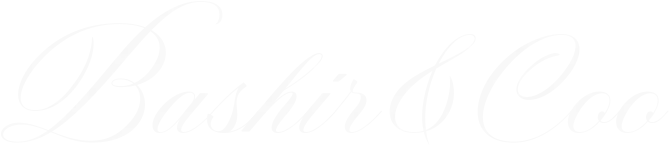
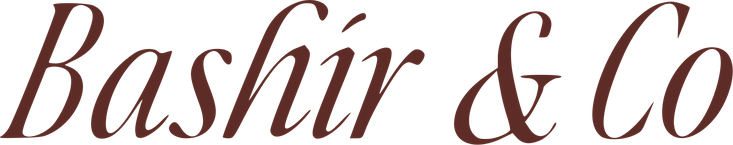
Wordmark: fix "Bashir & Coo" to "Bashir & Co" — drop duplicate o in mark, preloader and brand assets

diff --git a/components/brand/Wordmark.tsx b/components/brand/Wordmark.tsx
@@ -5,6 +5,12 @@ import styles from "./Wordmark.module.css";
  *
  * One component, used by the header, the search overlay and the footer,
  * so the mark is defined once. It's an inline SVG rather than an <img>
+ * The mark reads "Bashir & Co". It previously carried a second `o`
+ * glyph — the wordmark said "Coo" while the page title, metadata and
+ * every other mention said "Co" — so the duplicate path was removed and
+ * the viewBox tightened from 538 to 495 to close the gap it left.
+ *
+ * It's an inline SVG rather than an <img>
  * because that lets `currentColor` do the work: the same file renders
  * rosewood on cream in the header and ivory over a photograph in the
  * hero, without shipping two copies or resorting to CSS filters that
@@ -26,7 +32,7 @@ export function Wordmark({ height, className, title = "Bashir&Co" }: WordmarkPro
   return (
     <svg
       className={[styles.mark, className].filter(Boolean).join(" ")}
-      viewBox="0 0 538 206"
+      viewBox="0 0 495 206"
       {...(height ? { height } : {})}
       role="img"
       aria-label={title}
@@ -41,7 +47,6 @@ export function Wordmark({ height, className, title = "Bashir&Co" }: WordmarkPro
         <path d="M2266 1274 c-42 -15 -126 -79 -126 -95 0 -6 19 6 42 25 44 38 63 44 71 23 3 -7 -33 -105 -79 -217 -86 -212 -98 -262 -66 -279 31 -16 111 28 170 94 28 32 50 61 47 63 -2 2 -30 -23 -62 -57 -59 -62 -79 -72 -89 -47 -3 8 35 114 85 237 50 122 91 226 91 230 0 10 -29 39 -38 38 -4 0 -25 -7 -46 -15z" />
         <path d="M2490 1272 c-44 -23 -101 -64 -95 -70 2 -2 20 6 39 18 73 45 73 8 0 -186 -31 -82 -69 -184 -85 -226 l-28 -78 38 0 c37 0 39 2 56 48 46 124 197 380 242 409 20 13 28 13 55 2 28 -12 32 -11 49 10 11 13 19 32 19 42 0 22 -34 42 -59 34 -31 -10 -104 -95 -161 -188 -29 -48 -55 -86 -57 -84 -2 2 15 53 37 113 47 124 49 168 10 171 -14 2 -41 -5 -60 -15z" />
         <path d="M4461 1268 c-122 -60 -221 -230 -221 -377 0 -75 23 -124 70 -148 93 -47 241 52 315 210 70 149 64 281 -15 322 -41 21 -98 19 -149 -7z m124 -8 c43 -48 -11 -276 -98 -413 -81 -125 -162 -142 -174 -36 -12 105 86 360 166 432 46 41 79 47 106 17z" />
-        <path d="M4891 1268 c-122 -60 -221 -230 -221 -377 0 -75 23 -124 70 -148 93 -47 241 52 315 210 70 149 64 281 -15 322 -41 21 -98 19 -149 -7z m124 -8 c43 -48 -11 -276 -98 -413 -81 -125 -162 -142 -174 -36 -12 105 86 360 166 432 46 41 79 47 106 17z" />
         <path d="M1009 1260 c-19 -10 -58 -39 -87 -65 -177 -159 -260 -471 -123 -467 63 2 119 51 201 177 29 44 50 72 46 62 -32 -97 -47 -161 -44 -193 3 -33 7 -39 28 -42 32 -4 110 47 151 99 43 55 32 57 -20 4 -72 -74 -112 -72 -91 4 6 23 29 85 51 139 61 145 111 283 107 288 -3 2 -19 -1 -37 -7 -26 -9 -35 -8 -50 5 -24 21 -87 20 -132 -4z m119 -12 c20 -20 14 -41 -48 -168 -100 -201 -192 -327 -236 -318 -44 8 -22 163 41 288 78 156 192 249 243 198z" />
         <path d="M1425 1261 c-43 -26 -61 -50 -75 -97 -13 -45 -5 -88 44 -219 29 -80 32 -124 11 -165 -29 -55 -82 -51 -121 11 -25 40 -41 48 -62 27 -38 -38 15 -88 92 -88 75 0 135 33 164 90 30 59 26 107 -22 229 -45 114 -47 172 -5 204 35 25 59 16 84 -30 27 -51 60 -53 60 -3 0 27 -6 37 -25 47 -37 19 -110 16 -145 -6z" />
       </g>

diff --git a/components/preloader/Preloader.tsx b/components/preloader/Preloader.tsx
@@ -81,7 +81,7 @@ export function Preloader() {
       <div className={styles.markWrap}>
         <svg
           className={styles.mark}
-          viewBox="0 0 538 206"
+          viewBox="0 0 495 206"
           xmlns="http://www.w3.org/2000/svg"
         >
           <g
@@ -96,7 +96,6 @@ export function Preloader() {
           <path d="M2266 1274 c-42 -15 -126 -79 -126 -95 0 -6 19 6 42 25 44 38 63 44 71 23 3 -7 -33 -105 -79 -217 -86 -212 -98 -262 -66 -279 31 -16 111 28 170 94 28 32 50 61 47 63 -2 2 -30 -23 -62 -57 -59 -62 -79 -72 -89 -47 -3 8 35 114 85 237 50 122 91 226 91 230 0 10 -29 39 -38 38 -4 0 -25 -7 -46 -15z" style={{ animationDelay: "450ms" }} pathLength={1} />
           <path d="M2490 1272 c-44 -23 -101 -64 -95 -70 2 -2 20 6 39 18 73 45 73 8 0 -186 -31 -82 -69 -184 -85 -226 l-28 -78 38 0 c37 0 39 2 56 48 46 124 197 380 242 409 20 13 28 13 55 2 28 -12 32 -11 49 10 11 13 19 32 19 42 0 22 -34 42 -59 34 -31 -10 -104 -95 -161 -188 -29 -48 -55 -86 -57 -84 -2 2 15 53 37 113 47 124 49 168 10 171 -14 2 -41 -5 -60 -15z" style={{ animationDelay: "540ms" }} pathLength={1} />
           <path d="M4461 1268 c-122 -60 -221 -230 -221 -377 0 -75 23 -124 70 -148 93 -47 241 52 315 210 70 149 64 281 -15 322 -41 21 -98 19 -149 -7z m124 -8 c43 -48 -11 -276 -98 -413 -81 -125 -162 -142 -174 -36 -12 105 86 360 166 432 46 41 79 47 106 17z" style={{ animationDelay: "630ms" }} pathLength={1} />
-          <path d="M4891 1268 c-122 -60 -221 -230 -221 -377 0 -75 23 -124 70 -148 93 -47 241 52 315 210 70 149 64 281 -15 322 -41 21 -98 19 -149 -7z m124 -8 c43 -48 -11 -276 -98 -413 -81 -125 -162 -142 -174 -36 -12 105 86 360 166 432 46 41 79 47 106 17z" style={{ animationDelay: "720ms" }} pathLength={1} />
           <path d="M1009 1260 c-19 -10 -58 -39 -87 -65 -177 -159 -260 -471 -123 -467 63 2 119 51 201 177 29 44 50 72 46 62 -32 -97 -47 -161 -44 -193 3 -33 7 -39 28 -42 32 -4 110 47 151 99 43 55 32 57 -20 4 -72 -74 -112 -72 -91 4 6 23 29 85 51 139 61 145 111 283 107 288 -3 2 -19 -1 -37 -7 -26 -9 -35 -8 -50 5 -24 21 -87 20 -132 -4z m119 -12 c20 -20 14 -41 -48 -168 -100 -201 -192 -327 -236 -318 -44 8 -22 163 41 288 78 156 192 249 243 198z" style={{ animationDelay: "810ms" }} pathLength={1} />
           <path d="M1425 1261 c-43 -26 -61 -50 -75 -97 -13 -45 -5 -88 44 -219 29 -80 32 -124 11 -165 -29 -55 -82 -51 -121 11 -25 40 -41 48 -62 27 -38 -38 15 -88 92 -88 75 0 135 33 164 90 30 59 26 107 -22 229 -45 114 -47 172 -5 204 35 25 59 16 84 -30 27 -51 60 -53 60 -3 0 27 -6 37 -25 47 -37 19 -110 16 -145 -6z" style={{ animationDelay: "900ms" }} pathLength={1} />
           </g>
